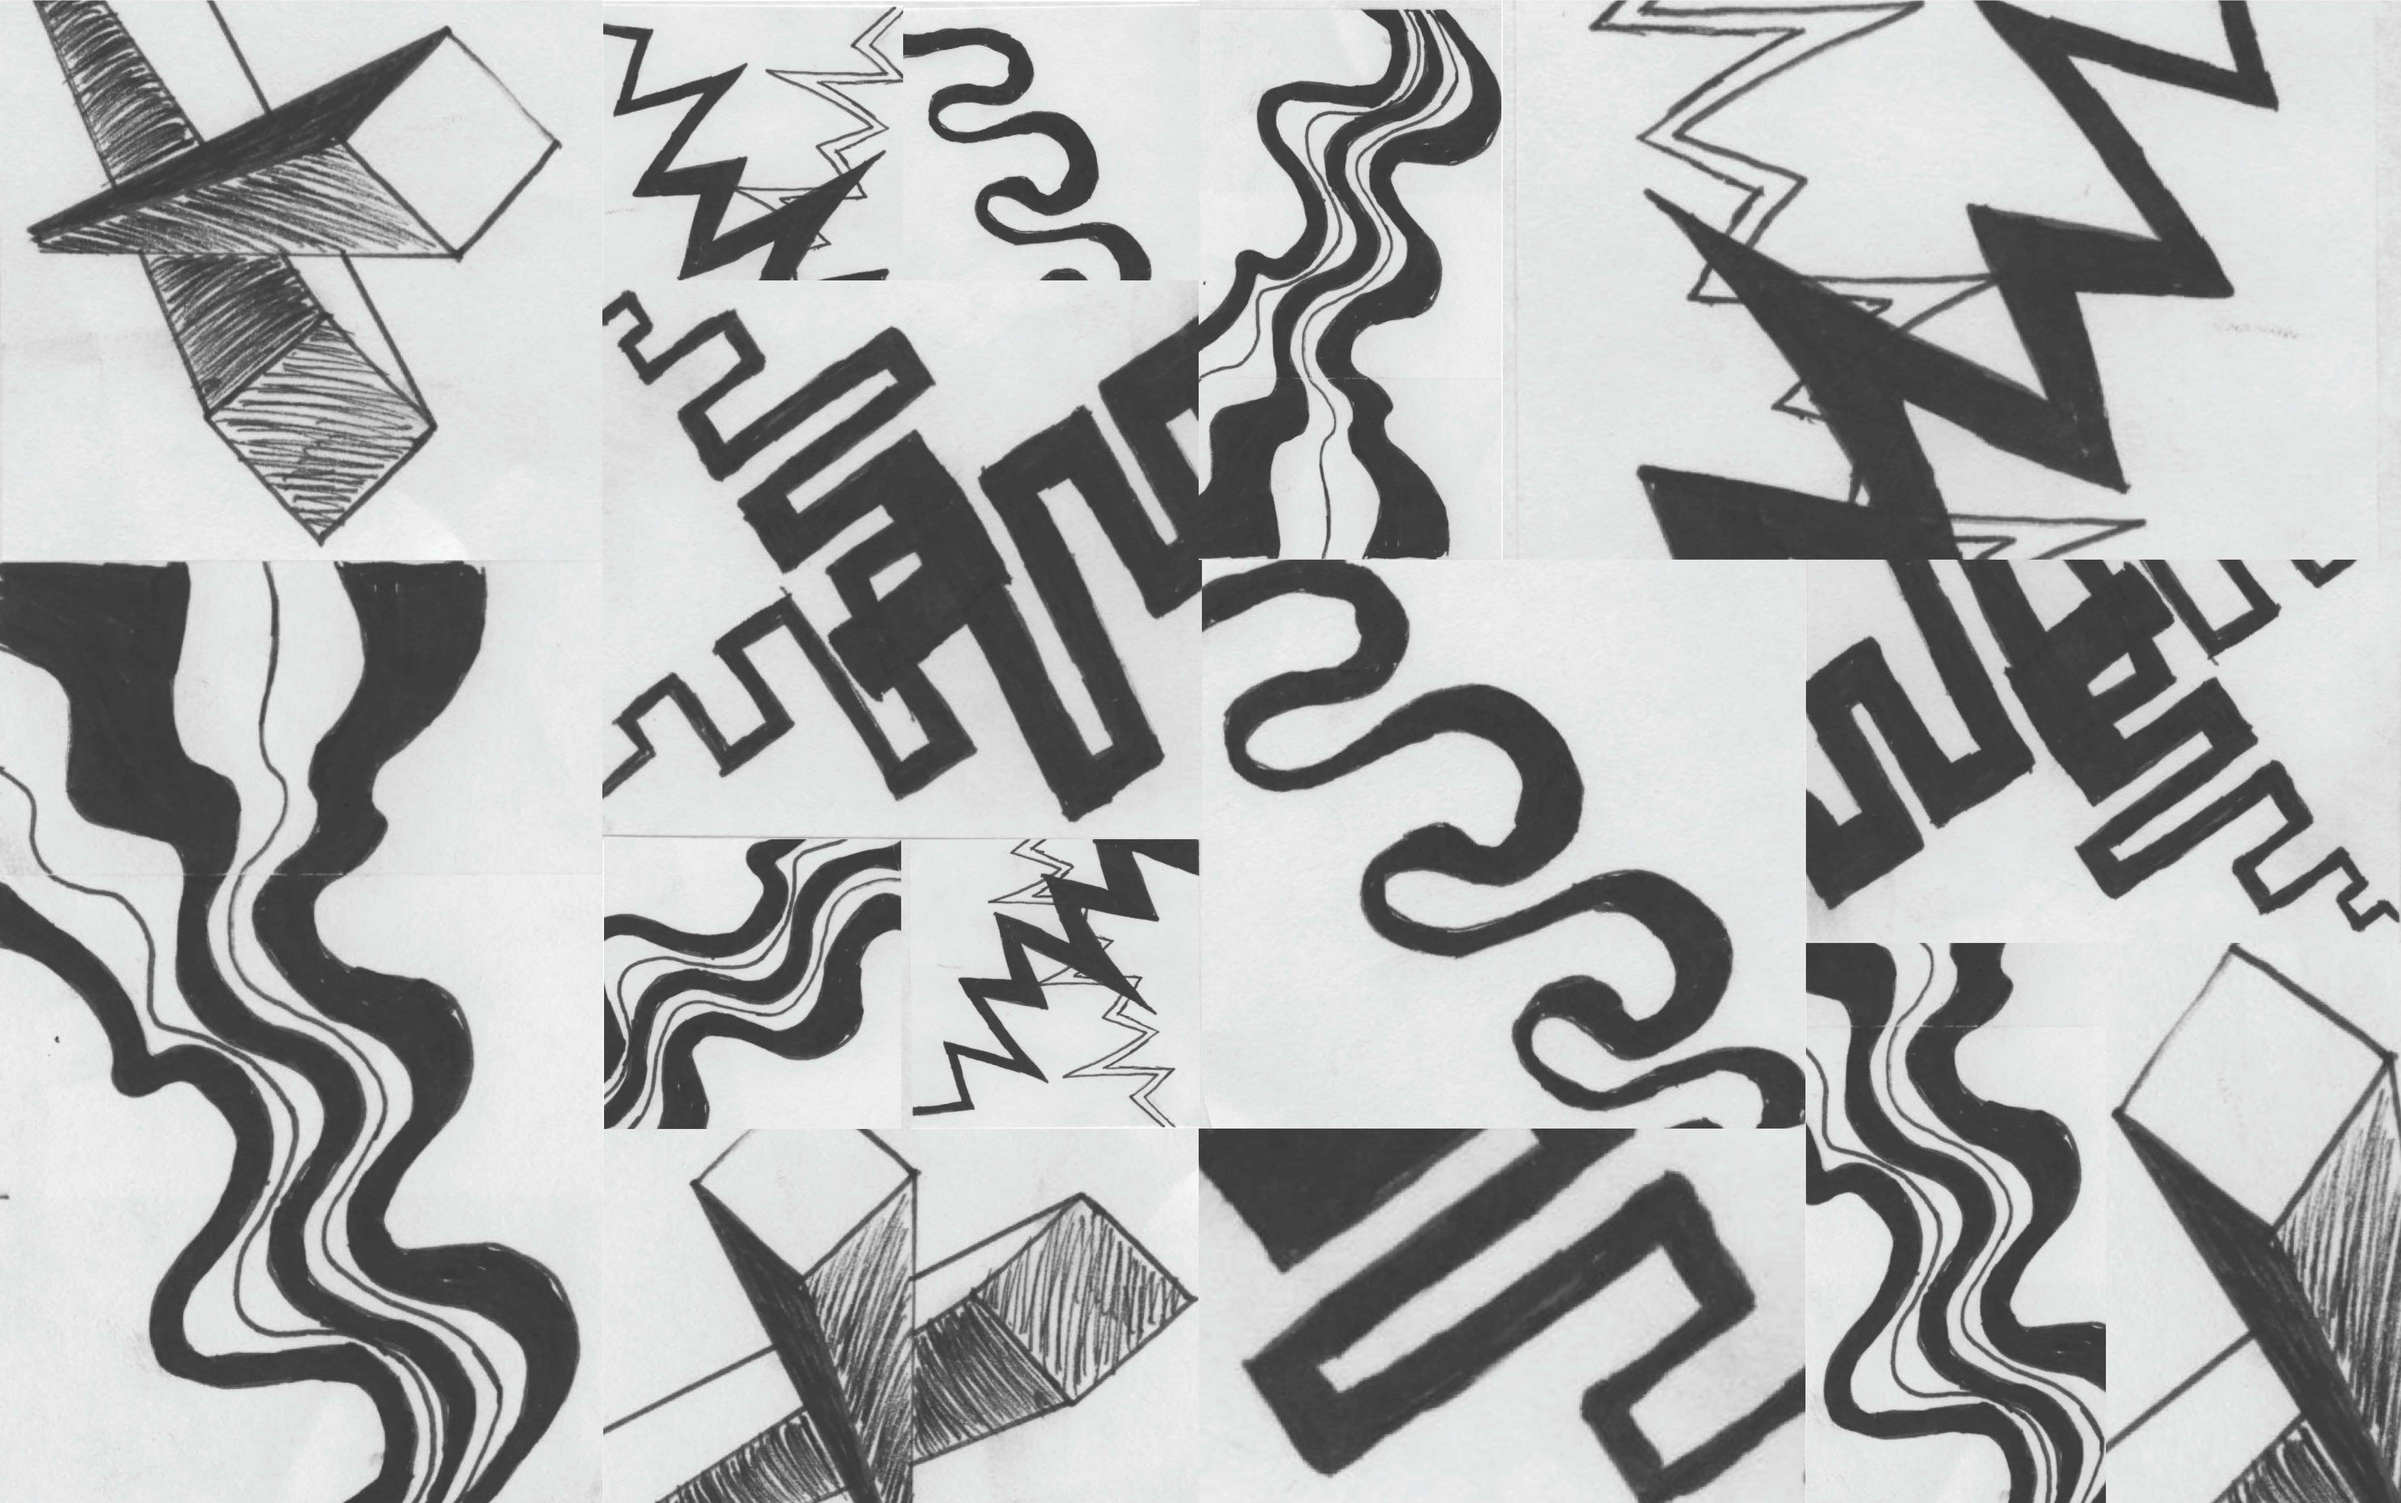
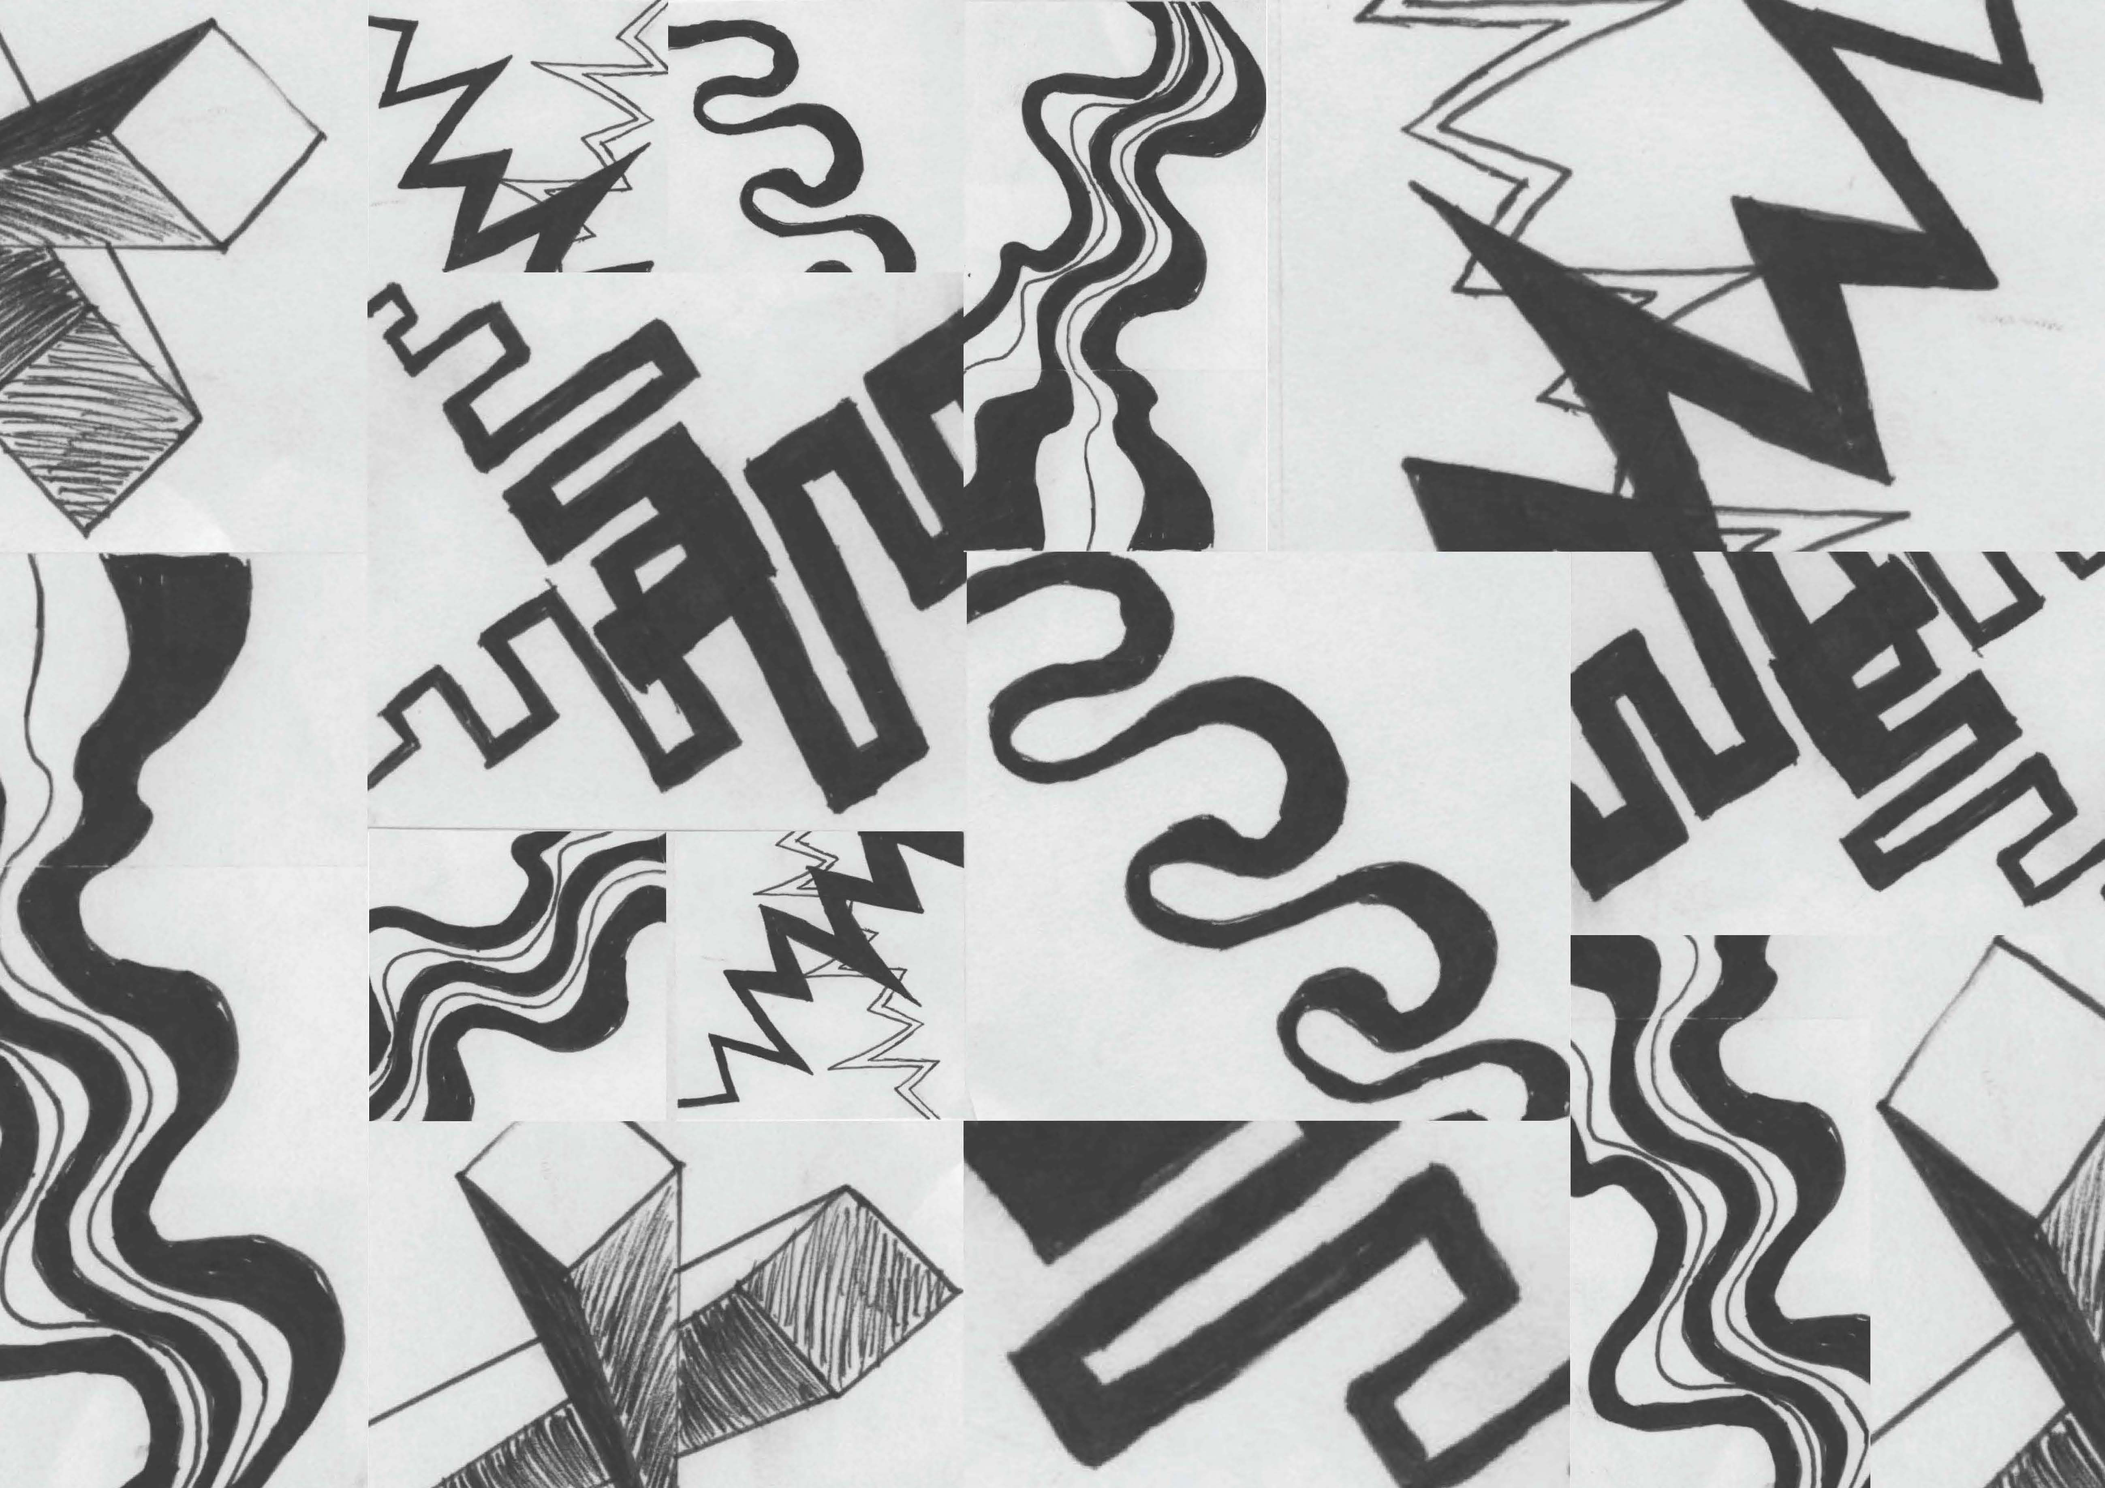
finished profile page and adjusted typesizes

diff --git a/pages/student.html b/pages/student.html
@@ -4,7 +4,6 @@
     <meta charset="UTF-8">
     <title>Nesst: Student Profile</title>
     <link rel="stylesheet" href="../main.css">
-    <link rel="stylesheet" hret="profile.css">
 </head>
 <body>
 
@@ -30,33 +29,37 @@
 
         <header>    <!--can you use flexbox and span columns-->
            <div id="left-content">
-                <div id="profile-slideshow" class="slideshow">
+                <div  class="slideshow" id="profile-slideshow">
                     <img class="arrow" src="../assets/arrows/left_arrow.png" alt="Left">
                     <h2 id="slideshow-caption" class="light">Danielle Flinn, Mashup</h2>
                     <img class="arrow" src="../assets/arrows/right_arrow.png" alt="Right"> 
                 </div>
                 <div id="alternate-imgs">
-                    <img class="tile" src="../assets/images/idea3.jpg" alt="design-picture"> 
-                    <img class="tile" src="../assets/images/idea3.jpg" alt="design-picture"> 
-                    <img class="tile" src="../assets/images/idea3.jpg" alt="design-picture"> 
+                    <img class="profile-tile" src="../assets/images/FlinnD_PointLinePlane_Page_1.jpg" alt="design-picture"> 
+                    <img class="profile-tile" src="../assets/images/FlinnD_PointLinePlane_Page_2.jpg" alt="design-picture"> 
+                    <img class="profile-tile" src="../assets/images/FlinnD_PointLinePlane_Page_3.jpg" alt="design-picture"> 
                 </div>
             </div>
             
-            <aside id="left content">
+            <aside id="right-content">
                 <div id="profile-box">
-                    <h2>Danielle Flinn</h2>
-                    <p>dflinn.com</p>
-                    <p>danielleflinn29@gmail.com</p>
-                    <div class="social-links">
-                        <a href="facebook.com"><img class="social-icons" src ="../assets/icons/facebook.png" alt="facebook-logo"></a> 
-                        <a href="twitter.com"><img class="social-icons" src ="../assets/icons/twitter.png" alt="twitter-logo"></a>
+                    <div>
+                        <h2>Danielle Flinn</h2>
+                        <p>dflinn.com</p>
+                        <p>danielleflinn29@gmail.com</p>
+                        <div class="social-links">
+                            <a href="facebook.com"><img class="social-icons" src ="../assets/icons/facebook.png" alt="facebook-logo"></a> 
+                            <a href="twitter.com"><img class="social-icons" src ="../assets/icons/twitter.png" alt="twitter-logo"></a>
+                        </div>
                     </div>
+                    <img class="profile-img" src="../assets/images/Self Portrait.jpg" alt="design-picture"> 
                 </div>
                 <div id="project-info">
                     <h2>Mashup</h2>
                     <p>Mashup was one of my first design assignments. The task was to create a visual mashup of 2 songs.</p>
-                    <p>I listened to my two chosen songs, and sketched several different types of lines that looked like the songs sounded</p> 
-                    <p>After refining the best of the sketches, I arranged the chosen thumbnails into a final cohesive design.</p>
+                    <p>I listened to my two chosen songs, and sketched several different types of lines that looked like the songs sounded.
+                        After refining the best of the sketches, I arranged the scans of the chosen thumbnails in indesign until I felt I had a final cohesive design.</p> 
+                    <p>Finaly, I drew out the final design on Bristol Paper using black micron pens.</p>
                 </div>
             </aside>
         </header> 
@@ -65,13 +68,13 @@
             <h3>Danielle Flinn's Portfolio</h3>
             <div class="tiled-gallery">
                     <img class="tile" src="../assets/images/idea3.jpg" alt="design-picture"> 
+                    <img class="tile" src="../assets/images/20180609_210301.jpg" alt="design-picture"> 
                     <img class="tile" src="../assets/images/idea3.jpg" alt="design-picture"> 
+                    <img class="tile" src="../assets/images/FlinnD_PointLinePlane_Page_1.jpg" alt="design-picture"> 
+                    <img class="tile" src="../assets/images/FlinnD_PointLinePlane_Page_2.jpg" alt="design-picture"> 
+                    <img class="tile" src="../assets/images/FlinnD_PointLinePlane_Page_3.jpg" alt="design-picture"> 
                     <img class="tile" src="../assets/images/idea3.jpg" alt="design-picture"> 
-                    <img class="tile" src="../assets/images/idea3.jpg" alt="design-picture"> 
-                    <img class="tile" src="../assets/images/idea3.jpg" alt="design-picture"> 
-                    <img class="tile" src="../assets/images/idea3.jpg" alt="design-picture"> 
-                    <img class="tile" src="../assets/images/idea3.jpg" alt="design-picture"> 
-                    <img class="tile" src="../assets/images/idea3.jpg" alt="design-picture"> 
+                    <img class="tile" src="../assets/images/20180609_210301.jpg" alt="design-picture"> 
             </div>
         </section> 
     </main>
@@ -107,14 +110,14 @@
             <div class="mini-gallery">
                 <h3>View Gallery</h3>
                 <div class="tiled-gallery">
-                    <img class="tile" src="../assets/images/3Compositions-01.jpg" alt="design-picture"> 
-                    <img class="tile" src="../assets/images/3Compositions-02.jpg" alt="design-picture">
-                    <img class="tile" src="../assets/images/3Compositions-03.jpg" alt="design-picture">
-                    <img class="tile" src="../assets/images/20181029_212836.jpg" alt="design-picture">
-                    <img class="tile" src="../assets/images/FlinnD_BookCover1.png" alt="design-picture">
-                    <img class="tile" src="../assets/images/FlinnD_Poster2.png" alt="design-picture">
-                    <img class="tile" src="../assets/images/FlinnD_SpatialTranslationLine.jpg" alt="design-picture">
-                    <img class="tile" src="../assets/images/FlinnD_SpatialTranslationPlane.jpg" alt="design-picture">
+                    <img class="tile" src="../assets/images/idea3.jpg" alt="design-picture"> 
+                    <img class="tile" src="../assets/images/20180609_210301.jpg" alt="design-picture"> 
+                    <img class="tile" src="../assets/images/idea3.jpg" alt="design-picture"> 
+                    <img class="tile" src="../assets/images/FlinnD_PointLinePlane_Page_1.jpg" alt="design-picture"> 
+                    <img class="tile" src="../assets/images/FlinnD_PointLinePlane_Page_2.jpg" alt="design-picture"> 
+                    <img class="tile" src="../assets/images/FlinnD_PointLinePlane_Page_3.jpg" alt="design-picture"> 
+                    <img class="tile" src="../assets/images/idea3.jpg" alt="design-picture"> 
+                    <img class="tile" src="../assets/images/20180609_210301.jpg" alt="design-picture"> 
                 </div>
             </div>
         </section>

diff --git a/index.html b/index.html
@@ -37,17 +37,17 @@
             <h2 id="intro">Nessst is a network showcasing student solutions from Eastern Washington University</h2>
             <div class="tiled-gallery">
                     <img class="tile" src="assets/images/idea3.jpg" alt="design-picture"> 
+                    <img class="tile" src="assets/images/20180609_210301.jpg" alt="design-picture"> 
                     <img class="tile" src="assets/images/idea3.jpg" alt="design-picture"> 
+                    <img class="tile" src="assets/images/FlinnD_PointLinePlane_Page_1.jpg" alt="design-picture"> 
+                    <img class="tile" src="assets/images/FlinnD_PointLinePlane_Page_2.jpg" alt="design-picture"> 
+                    <img class="tile" src="assets/images/FlinnD_PointLinePlane_Page_3.jpg" alt="design-picture"> 
                     <img class="tile" src="assets/images/idea3.jpg" alt="design-picture"> 
+                    <img class="tile" src="assets/images/20180609_210301.jpg" alt="design-picture"> 
+                    <img class="tile" src="assets/images/FlinnD_PointLinePlane_Page_2.jpg" alt="design-picture"> 
+                    <img class="tile" src="assets/images/FlinnD_PointLinePlane_Page_3.jpg" alt="design-picture"> 
                     <img class="tile" src="assets/images/idea3.jpg" alt="design-picture"> 
-                    <img class="tile" src="assets/images/idea3.jpg" alt="design-picture"> 
-                    <img class="tile" src="assets/images/idea3.jpg" alt="design-picture"> 
-                    <img class="tile" src="assets/images/idea3.jpg" alt="design-picture"> 
-                    <img class="tile" src="assets/images/idea3.jpg" alt="design-picture"> 
-                    <img class="tile" src="assets/images/idea3.jpg" alt="design-picture"> 
-                    <img class="tile" src="assets/images/idea3.jpg" alt="design-picture"> 
-                    <img class="tile" src="assets/images/idea3.jpg" alt="design-picture"> 
-                    <img class="tile" src="assets/images/idea3.jpg" alt="design-picture"> 
+                    <img class="tile" src="assets/images/20180609_210301.jpg" alt="design-picture"> 
             </div>
             <a class="button" href="pages/student.html"><h2 class="light">View More...</h2></a>
         </section> 
@@ -84,14 +84,14 @@
             <div class="mini-gallery">
                 <h3>View Gallery</h3>
                 <div class="tiled-gallery">
-                    <img class="tile" src="assets/images/3Compositions-01.jpg" alt="design-picture"> 
-                    <img class="tile" src="assets/images/3Compositions-02.jpg" alt="design-picture">
-                    <img class="tile" src="assets/images/3Compositions-03.jpg" alt="design-picture">
-                    <img class="tile" src="assets/images/20181029_212836.jpg" alt="design-picture">
-                    <img class="tile" src="assets/images/FlinnD_BookCover1.png" alt="design-picture">
-                    <img class="tile" src="assets/images/FlinnD_Poster2.png" alt="design-picture">
-                    <img class="tile" src="assets/images/FlinnD_SpatialTranslationLine.jpg" alt="design-picture">
-                    <img class="tile" src="assets/images/FlinnD_SpatialTranslationPlane.jpg" alt="design-picture">
+                    <img class="tile" src="assets/images/idea3.jpg" alt="design-picture"> 
+                    <img class="tile" src="assets/images/20180609_210301.jpg" alt="design-picture"> 
+                    <img class="tile" src="assets/images/idea3.jpg" alt="design-picture"> 
+                    <img class="tile" src="assets/images/FlinnD_PointLinePlane_Page_1.jpg" alt="design-picture"> 
+                    <img class="tile" src="assets/images/FlinnD_PointLinePlane_Page_2.jpg" alt="design-picture"> 
+                    <img class="tile" src="assets/images/FlinnD_PointLinePlane_Page_3.jpg" alt="design-picture"> 
+                    <img class="tile" src="assets/images/idea3.jpg" alt="design-picture"> 
+                    <img class="tile" src="assets/images/20180609_210301.jpg" alt="design-picture"> 
                 </div>
             </div>
         </section>

diff --git a/main.css b/main.css
@@ -9,7 +9,7 @@
 body {
     background-image: url(assets/textures/fabric_plaid.png);
     font-family: museo;
-    font-size: 1.35vw;
+    font-size: 18px;
     margin: 0;
 }
 
@@ -74,12 +74,7 @@ a, nav p {
     background-image: url(assets/images/idea3.jpg);
     background-size: cover;
     height: 40vw;
-    border: white solid 10px;
 
-}
-
-.border {
-    border: white solid 10px;
 }
 
 #slideshow-caption {
@@ -118,6 +113,7 @@ a, nav p {
     flex-wrap: wrap;
     justify-content: space-between;
     align-items: center;
+    margin-bottom: 2.5%;
 }
 
 .tile {
@@ -129,7 +125,7 @@ a, nav p {
     display: block;
     width: 20%;
     padding: 1%;
-    margin: 1%;
+    margin-bottom: 2.5%;
 }
 
 .button, footer {
@@ -159,7 +155,7 @@ a, nav p {
 }
 
 .footer-bar p span {
-    font-size: .5em;
+    font-size: .8rem;
 }
 
 .footer-content {
@@ -210,7 +206,8 @@ a, nav p {
     padding-top: 1%;
 }
 
-.about p {
+.about {
+    margin-block-end: 1.6rem;
     line-height: 160%;    
 }
 
@@ -224,7 +221,7 @@ p, h3 {
 }
 
 h2 {
-    font-size: 1.5vw;
+    font-size: 1.3rem;
     margin: 0;
 }
 
@@ -232,4 +229,74 @@ h3 {
     text-transform: uppercase;
 }
 
+header {
+    display: flex;
+    justify-content: space-between;
+}
 
+#profile-slideshow {
+    height: 60vh;
+}
+
+#alternate-imgs {
+    display: flex;
+    justify-content: space-between;
+    align-items: center;
+    margin-top: 2vh;
+    margin-bottom: 3.5%;
+}
+
+.slideshow, .profile-tile, .profile-box {
+    border: solid 10px white;
+}
+
+.profile-tile {
+    width: 30%;
+}
+
+#left-content {
+    width: 60vw;
+}
+
+#right-content {
+    width: 28vw;
+}
+
+#profile-box {
+    text-align: right;
+    display: flex;
+    justify-content: flex-end;
+    align-items: center;
+    padding: .8rem;
+    background-color: white;
+}
+
+.profile-img {
+    width: 25%;
+    margin-left: .8rem;
+}
+
+#project-info {
+    padding: 1rem;
+    background-color: white;
+    margin-top: 1.2rem;
+    line-height: 150%;
+    height: 71.5%;
+}
+
+#project-info p {
+    margin-block-end: .6rem;
+    margin-block-start: .6rem;
+}
+
+@media (max-width: 850px) {
+    .tile {
+        width: 30%;
+    }
+    .mini-gallery {
+        display: none;
+    }
+    .about, .footer-nav {
+        width: 45%;
+    }
+}

diff --git a/pages/profile.css b/pages/profile.css
@@ -1,9 +1,18 @@
+* {
+    border: red 1px solid;
+}
 header {
     display: flex;
     flex-direction: column;
-    
-}
+    justify-content: center}
 
 #profile-slideshow {
-    width
+}
+
+#left-content {
+    width: 60vw;
+}
+
+#right-content {
+    width: 30%;
 }
